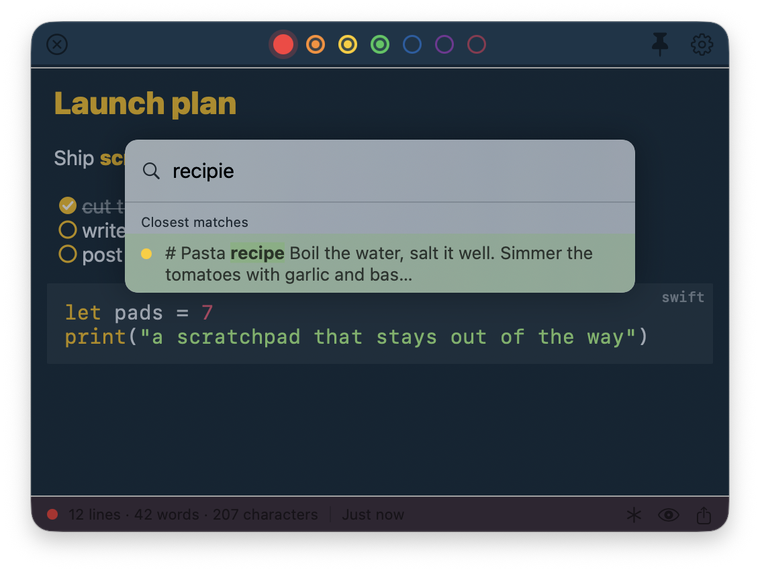
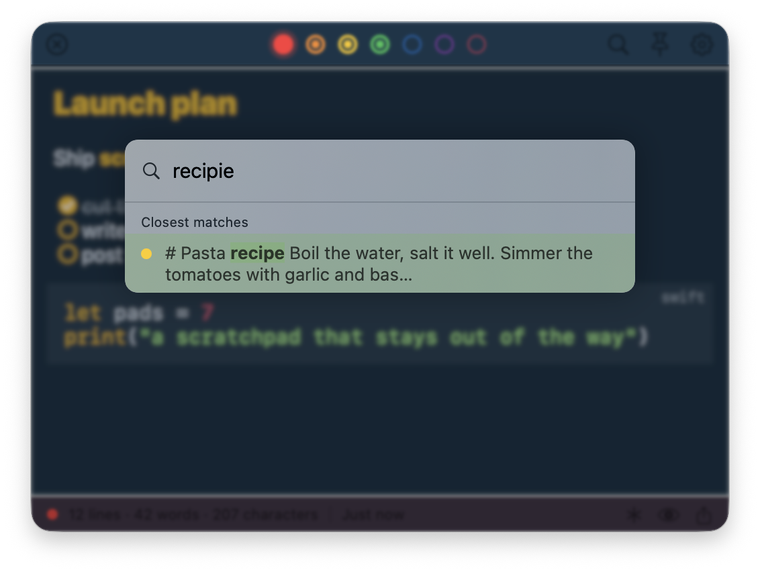
chore: bump version to 0.4.0, refresh the README screenshots and GIF

diff --git a/Tests/ScrapAppTests/DemoAssetsTests.swift b/Tests/ScrapAppTests/DemoAssetsTests.swift
@@ -48,9 +48,7 @@ final class DemoAssetsTests: XCTestCase {
 
     private func shot(_ window: NSWindow, _ name: String, to dir: String) throws {
         spin(0.25)
-        guard let image = CGWindowListCreateImage(.null, .optionIncludingWindow, CGWindowID(window.windowNumber), [.bestResolution]) else {
-            throw XCTSkip("window capture is not available here")
-        }
+        let image = try ScreenCapture.usable(CGWindowListCreateImage(.null, .optionIncludingWindow, CGWindowID(window.windowNumber), [.bestResolution]))
         try NSBitmapImageRep(cgImage: image).representation(using: .png, properties: [:])!.write(to: URL(fileURLWithPath: dir).appendingPathComponent(name))
     }
 
@@ -74,7 +72,7 @@ final class DemoAssetsTests: XCTestCase {
         try write(1, """
         # Launch plan
 
-        Ship **scrap 0.2** this week, then tell people.
+        Ship **scrap 0.4** this week, then tell people.
 
         - [x] cut the release
         - [ ] write the README

diff --git a/Sources/ScrapCore/ScrapCore.swift b/Sources/ScrapCore/ScrapCore.swift
@@ -1,5 +1,5 @@
 import Foundation
 
 public enum Scrap {
-    public static let version = "0.3.0"
+    public static let version = "0.4.0"
 }
